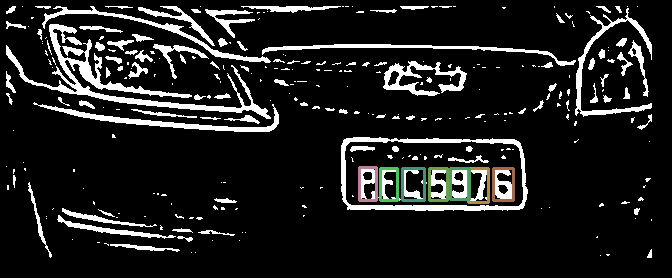
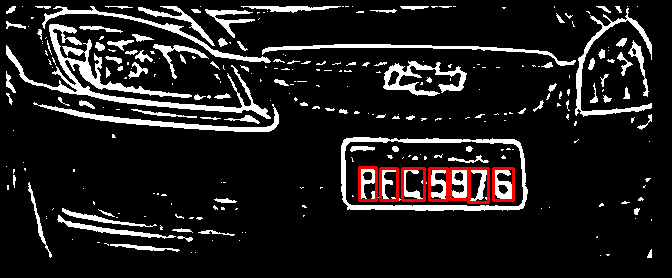
Minor adjustments

Changed region(s): [[0.5312, 0.5755, 0.7812, 0.7482]]

diff --git a/src/controller/alpr.py b/src/controller/alpr.py
@@ -92,13 +92,13 @@ class Alpr:
 
             if 1.1 <= proportion <= 2:
                 if 15 <= w <= 50 and 25 <= h <= 50:
-                    colors = self.contour_color()
+                    colors = self.contour_color(True)
                     cv.rectangle(img, (x, y), (x + w, y + h), colors, 2)
                     boxes.append([x, y, w, h])
 
             if 4.1 <= proportion <= 5.5:
                 if 3 <= w <= 15 and 30 <= h <= 80:
-                    colors = self.contour_color()
+                    colors = self.contour_color(True)
                     cv.rectangle(img, (x, y), (x + w, y + h), colors, 2)
                     boxes.append([x, y, w, h])
 
@@ -119,11 +119,11 @@ class Alpr:
 
         results = self.validate_plates(result)
 
-        if len(results) != 0:
+        if isinstance(results, list):
             print("    - License Plates Detected: ", results)
             return
 
-        print("    - Characters Detected: ", result)
+        print("    - Characters Detected: ", results)
 
     def validate_plates(self, result):
         regex = re.compile('[A-Z12578]{3,3}[0-9IZSTB]{4,4}')
@@ -143,8 +143,8 @@ class Alpr:
         return result
 
     def remove_ambiguity(self, letters, numbers):
-        letter_replace = {'1': 'I', '2': 'Z', '5': 'S', '7': 'T', '8': 'B'}
-        number_replace = {'I': '1', 'Z': '2', 'S': '5', 'T': '7', 'B': '8'}
+        letter_replace = {'1': 'I', '2': 'Z', '5': 'S', '7': 'T', '8': 'B', '0': 'O'}
+        number_replace = {'I': '1', 'Z': '2', 'S': '5', 'T': '7', 'B': '8', 'O': '0'}
 
         correct_letters = ''
         for letter in letters:
@@ -191,7 +191,10 @@ class Alpr:
 
         return hulog
 
-    def contour_color(self):
+    def contour_color(self, red=False):
+        if red:
+            return (0, 0, 255)
+
         b = np.random.randint(50, 200)
         g = np.random.randint(50, 200)
         r = np.random.randint(50, 200)
